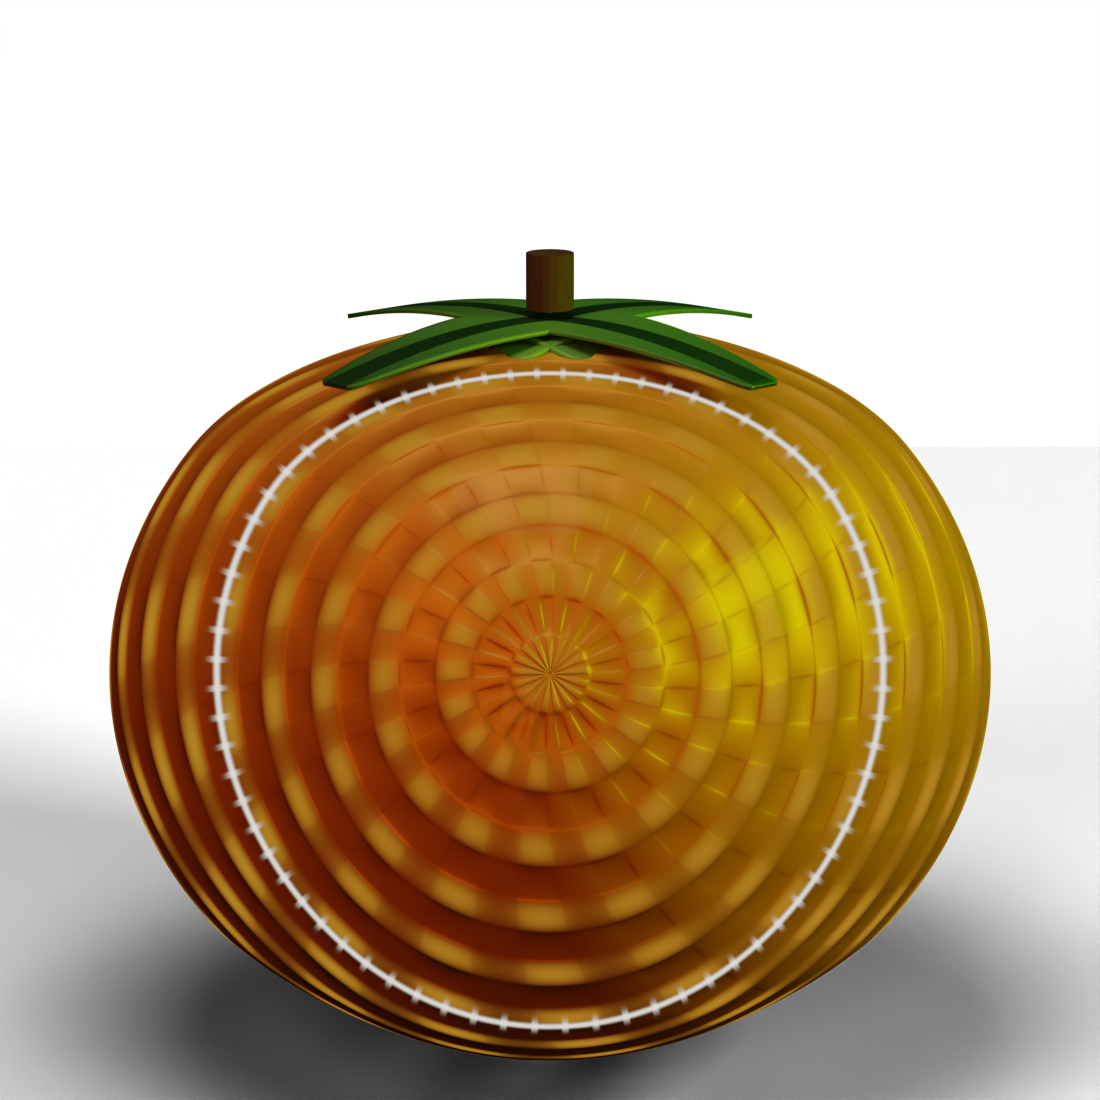
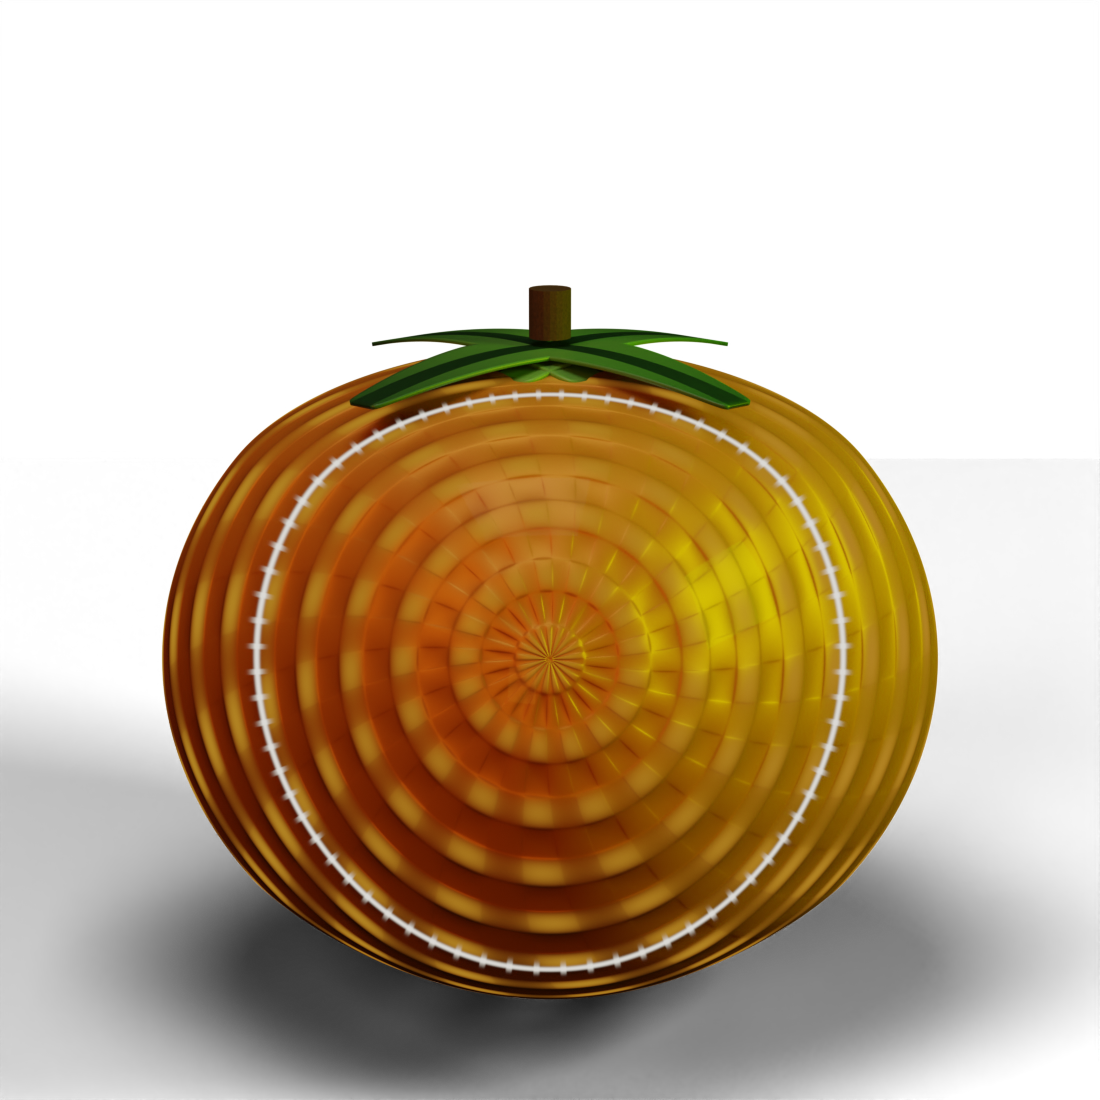
genesis-3d: wider framing for breathing room
Camera lens 100mm -> 88mm (location unchanged, so the material's
camera-relative UV basis stays valid). The fruit previously filled the
frame edge-to-edge; now there's real negative space, reading as a
considered hero shot rather than a tight crop. 1100x1100, 320 samples,
7:47 render time, no errors.

diff --git a/art/genesis-3d/scene.py b/art/genesis-3d/scene.py
@@ -320,7 +320,7 @@ ground.data.materials.append(gm)
 bpy.ops.object.camera_add(location=(0, -7.0, 2.05))
 cam = bpy.context.active_object
 cam.rotation_euler = (math.radians(76), 0, 0)
-cam.data.lens = 100
+cam.data.lens = 88
 scene.camera = cam
 
 scene.render.filepath = os.path.join(HERE, "render.png")
